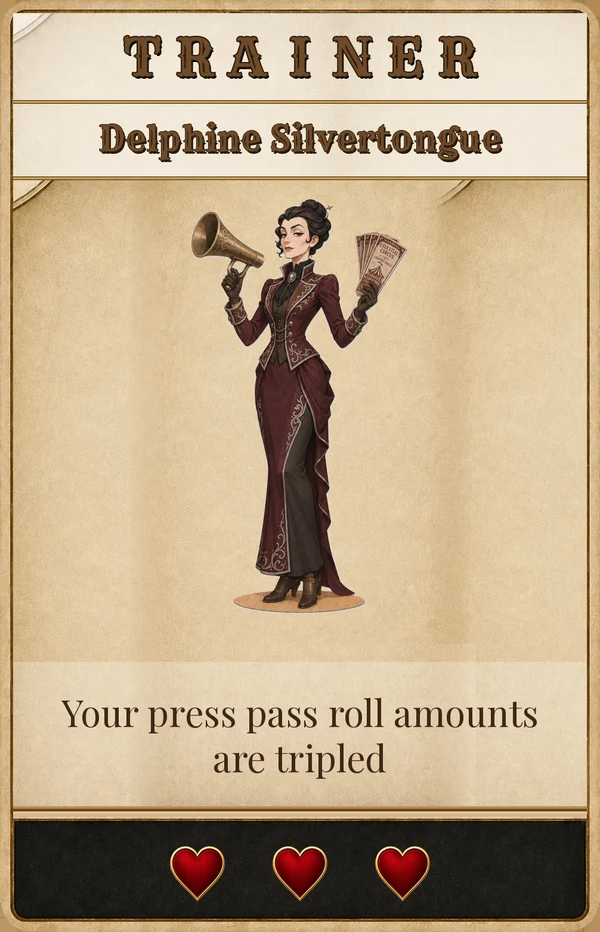
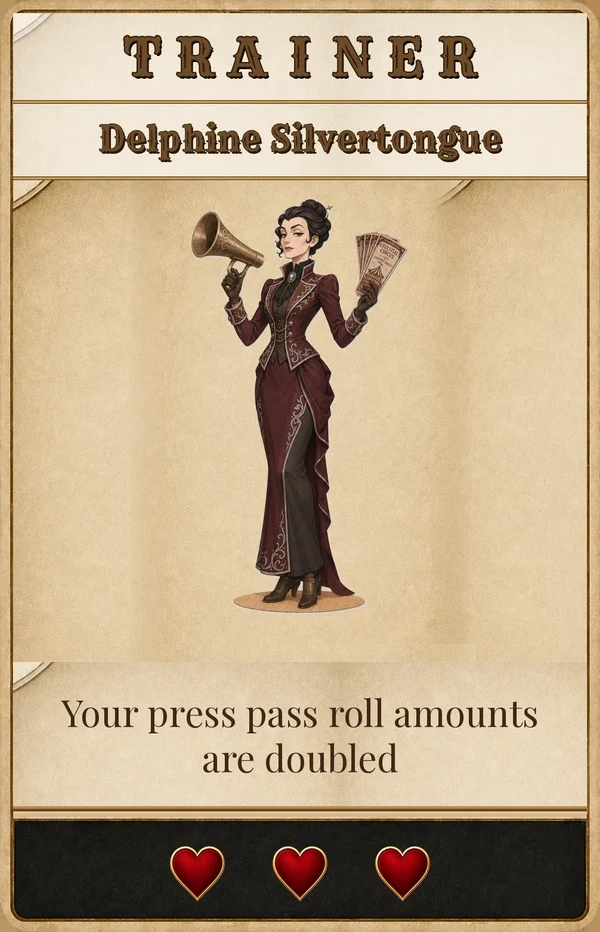
Orsino the Headliner: A/B trigger letters -> G/H; fix stale Delphine card art
Orsino the Headliner: trigger letters changed back from A/B to G/H per
Travis's request (his +3 bonus now applies to G and H performers when
rolled, not A and B). Updated engine.js's boostCount trigger check,
card_database.json ability text, the existing rules.test.js coverage
(now uses a G-letter performer and asserts on G rolls), and
DESIGN_BRIEF.md's trainer table. Re-rendered Orsino's card art (webp +
print PNG) to match.

Delphine Silvertongue: her ability text and engine logic already said
"doubled" (from a prior session's rework), but her card art (webp +
print PNG) still visually displayed the old "tripled" wording from
before that change -- never re-rendered at the time. Fixed by
re-rendering just her ability-text band with the correct "doubled"
wording; no data or logic change needed here.

Tests: 70/70 rules, 12/12 full-game simulations passing. Client rebuilt.

Changed region(s): [[0.21, 0.6845, 0.87, 0.8712], [0.0, 0.6845, 0.18, 0.7468], [0.93, 0.7157, 0.96, 0.7468]]

diff --git a/test/rules.test.js b/test/rules.test.js
@@ -1353,13 +1353,13 @@ test('acquiring a Trainer with slot 8 full can be sent to reserve instead of bum
 
 // ---- new trainers -----------------------------------------------------------
 
-test('Orsino the Headliner: A and B performers collect +3 when rolled', () => {
+test('Orsino the Headliner: G and H performers collect +3 when rolled', () => {
   const s = freshGame(2, 1234);
   const seat = currentSeat(s);
   const other = s.players.find((x) => x.seat !== seat).seat;
   const p = s.players[seat];
   p.slots[7] = TRAINERS.ORSINO;
-  const perfA = performer((c) => c.letter === 'A' && c.resource === 'Star');
+  const perfA = performer((c) => c.letter === 'G' && c.resource === 'Star');
   p.slots[0] = perfA;
   s.hearts[perfA] = card(perfA).startingHearts ?? 0;
   s.players[other].slots = [null, null, null, null, null, null, null, null];
@@ -1370,11 +1370,11 @@ test('Orsino the Headliner: A and B performers collect +3 when rolled', () => {
   const rngNow = 999;
   s.rng = rngNow;
   const seq = predict(rngNow, [20, 20, 20, 20, 20, 1000, 1000, 8]);
-  const aCount = seq.slice(0, 5).map((i) => COLLECTION_FACES[i]).filter((l) => l === 'A').length;
+  const aCount = seq.slice(0, 5).map((i) => COLLECTION_FACES[i]).filter((l) => l === 'G').length;
   const before = p.stars;
   applyAction(s, { type: 'acquireDraft', seat, cardId: filler });
   driveDicePhase(s);
-  assert.equal(p.stars - before, aCount * 4, `expected 1 (base) + 3 (Orsino) = 4 stars per A roll (${aCount}x)`);
+  assert.equal(p.stars - before, aCount * 4, `expected 1 (base) + 3 (Orsino) = 4 stars per G roll (${aCount}x)`);
 });
 
 test('Delphine Silvertongue doubles a spent Press Pass\'s private roll count', () => {

diff --git a/engine/engine.js b/engine/engine.js
@@ -462,7 +462,7 @@ function resolveCollectionDie(state, letter, onlySeat = null, typeFilterFn = nul
       if (c.cardType !== 'performer' || c.letter !== letter) continue;
       if (typeFilterFn && !typeFilterFn(c)) continue;
       let units = 1 + boostCount(state, p.seat, c);
-      if ((letter === 'A' || letter === 'B') && trainerActive(state, p.seat, TRAINERS.ORSINO)) units += 3;
+      if ((letter === 'G' || letter === 'H') && trainerActive(state, p.seat, TRAINERS.ORSINO)) units += 3;
       if (c.resource === 'Star') {
         p.stars += units;
         p.roundStars += units;

diff --git a/DESIGN_BRIEF.md b/DESIGN_BRIEF.md
@@ -94,7 +94,7 @@ A later ruling changed slots 6 and 7 from single-purpose (Backdrop-only / Prop-o
 
 | Trainer | Ability |
 |---|---|
-| Orsino the Headliner | Your A and B Performers collect +3 (on top of the normal 1 + any Backdrop/Prop boost) whenever their letter is rolled on a Collection Die. |
+| Orsino the Headliner | Your G and H Performers collect +3 (on top of the normal 1 + any Backdrop/Prop boost) whenever their letter is rolled on a Collection Die. |
 | Delphine Silvertongue | Every Press Pass you spend rolls double its printed number of private Collection Dice (e.g. Press Pass 3 rolls 6 instead of 3). |
 | Amara the Reliquary | To start your turn, you may move a heart from one of your cards (mat or reserve) to another, capped by the destination's printed heart capacity (`amaraMoveHeart`, once per turn, before your main action). |
 | Jonas Quickfinger | **Redesigned again.** "You may spend your turn to discard a performer to take their resource times their power dot amount." No longer tied to acquisition at all (the earlier "automatic bonus on acquiring a Performer" version is gone) — now a proactive, turn-consuming main action (`jonasDiscard`): pick one of your own active Performers (mat slots 0-4 only, not reserve), discard it, and take that many units of its printed resource, where "that many" is the discarded Performer's power dots (1-4). A straight cash-in — no Backdrop/Prop boost, not a Collection Die roll. |
